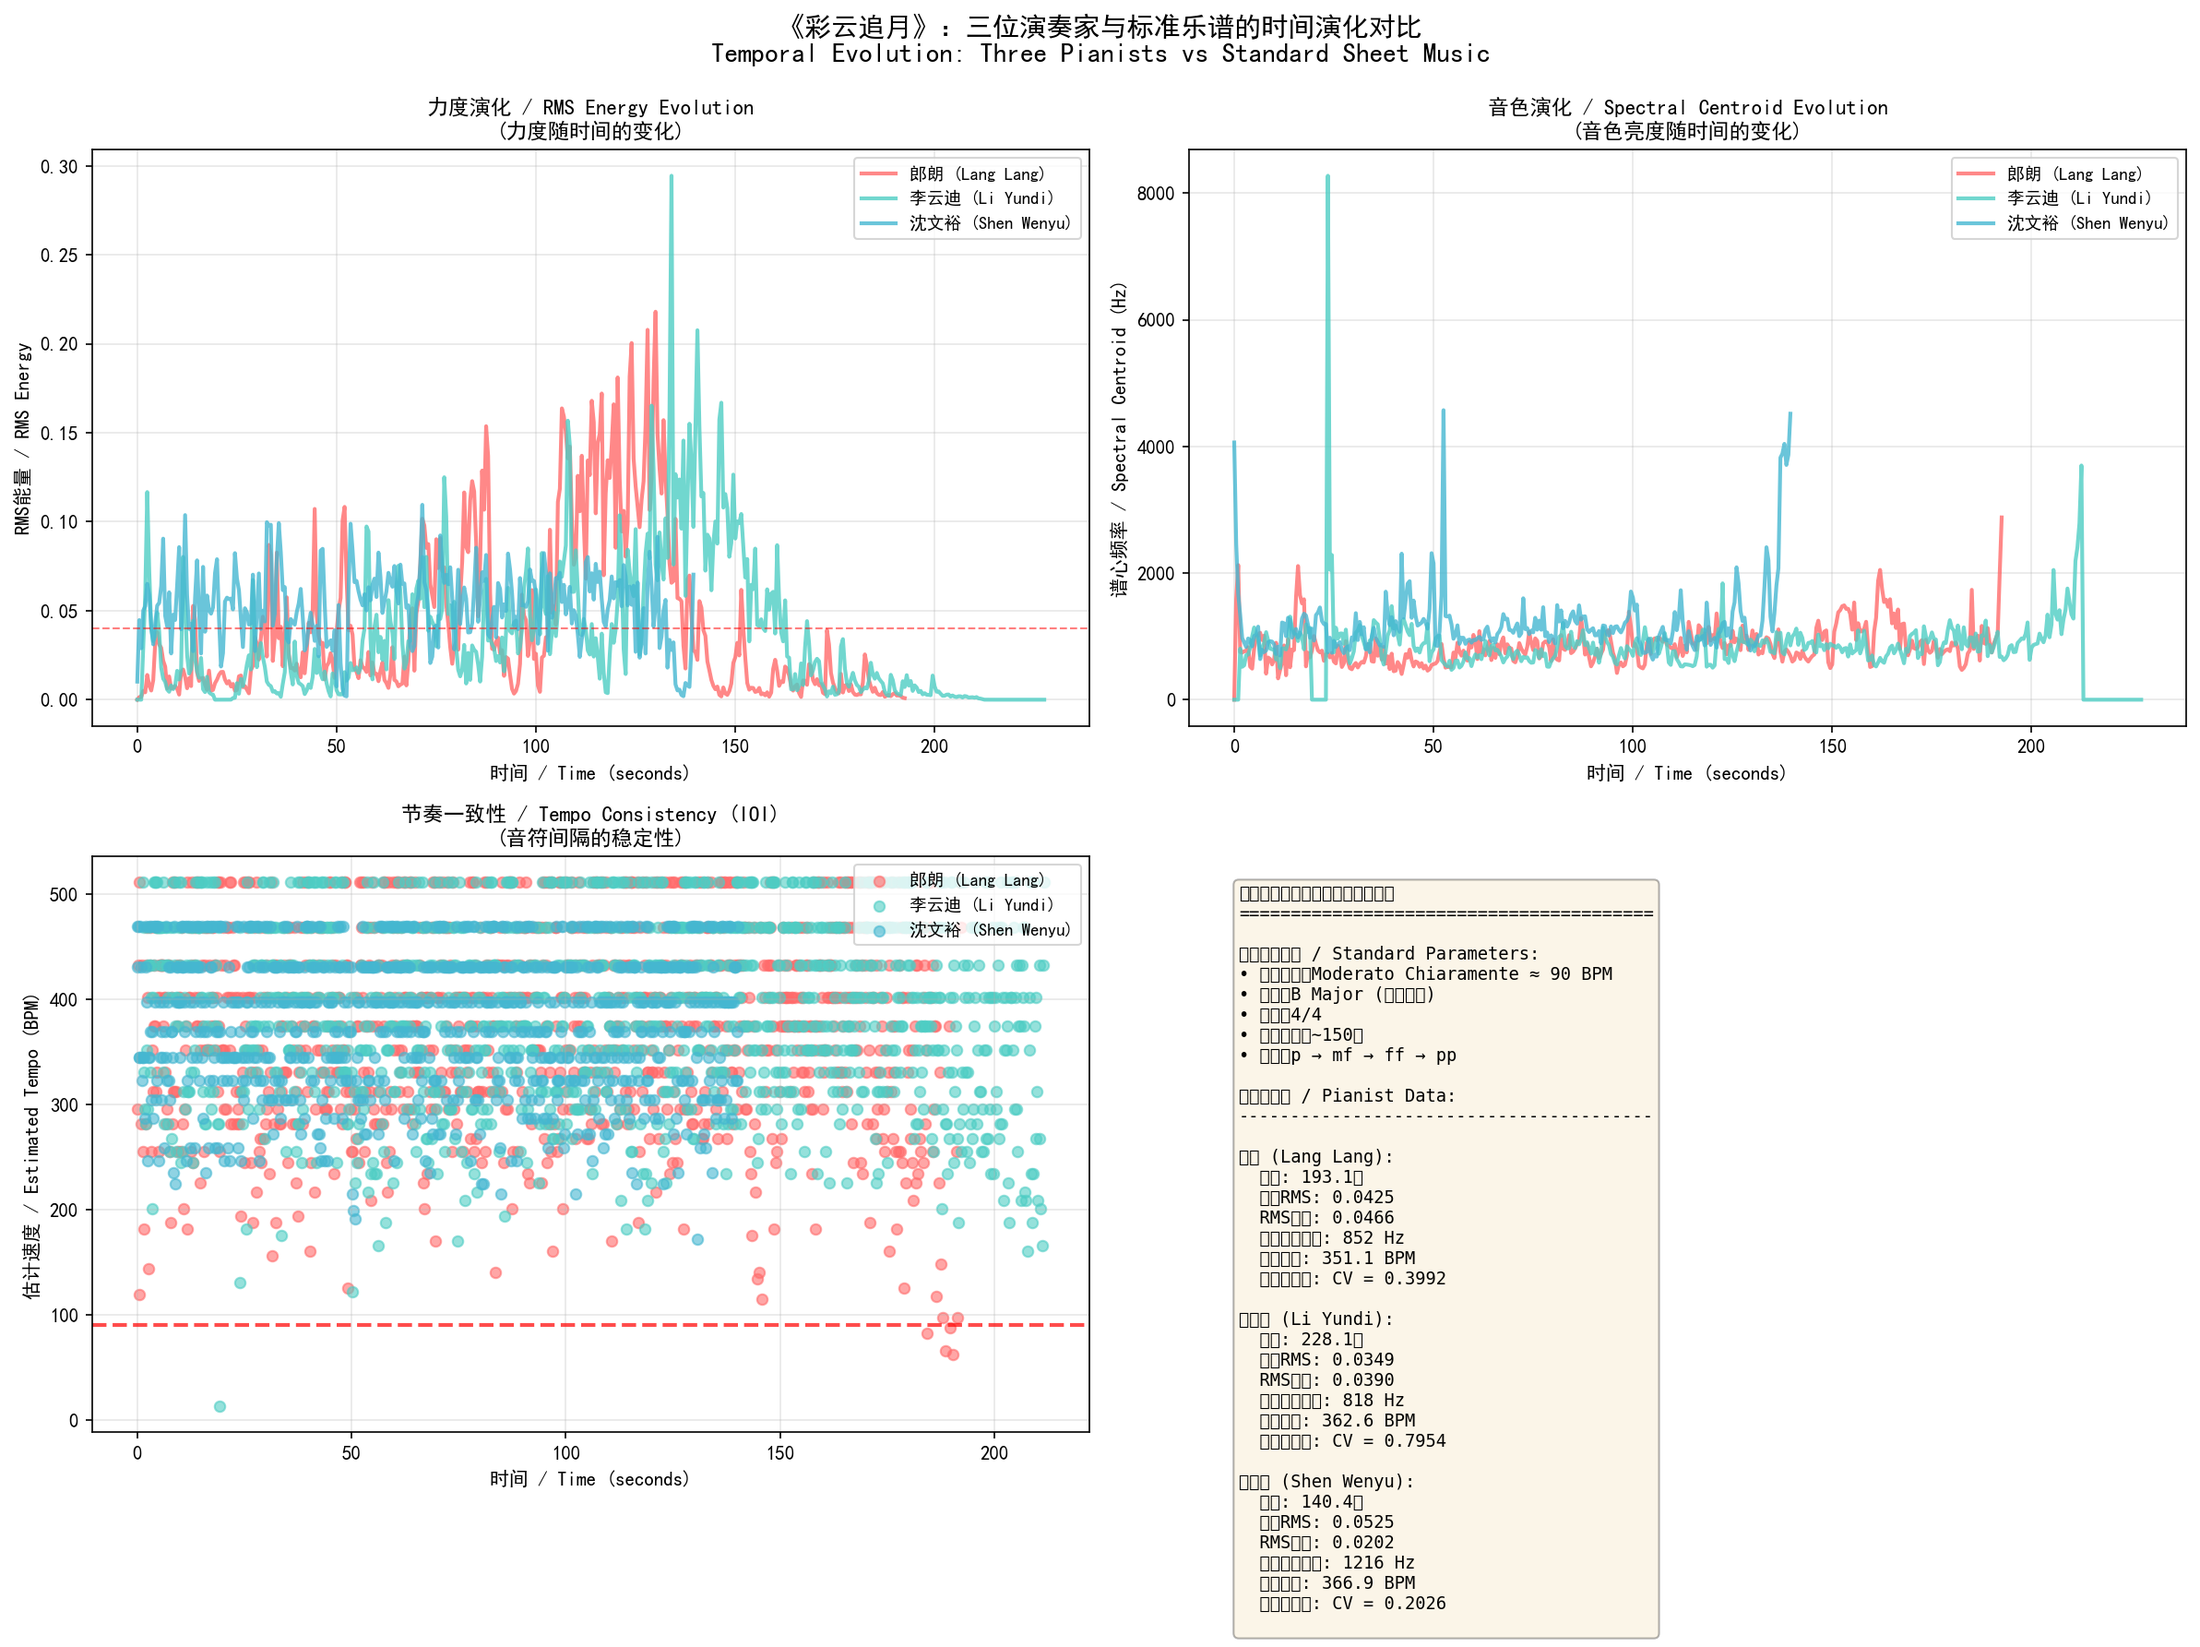
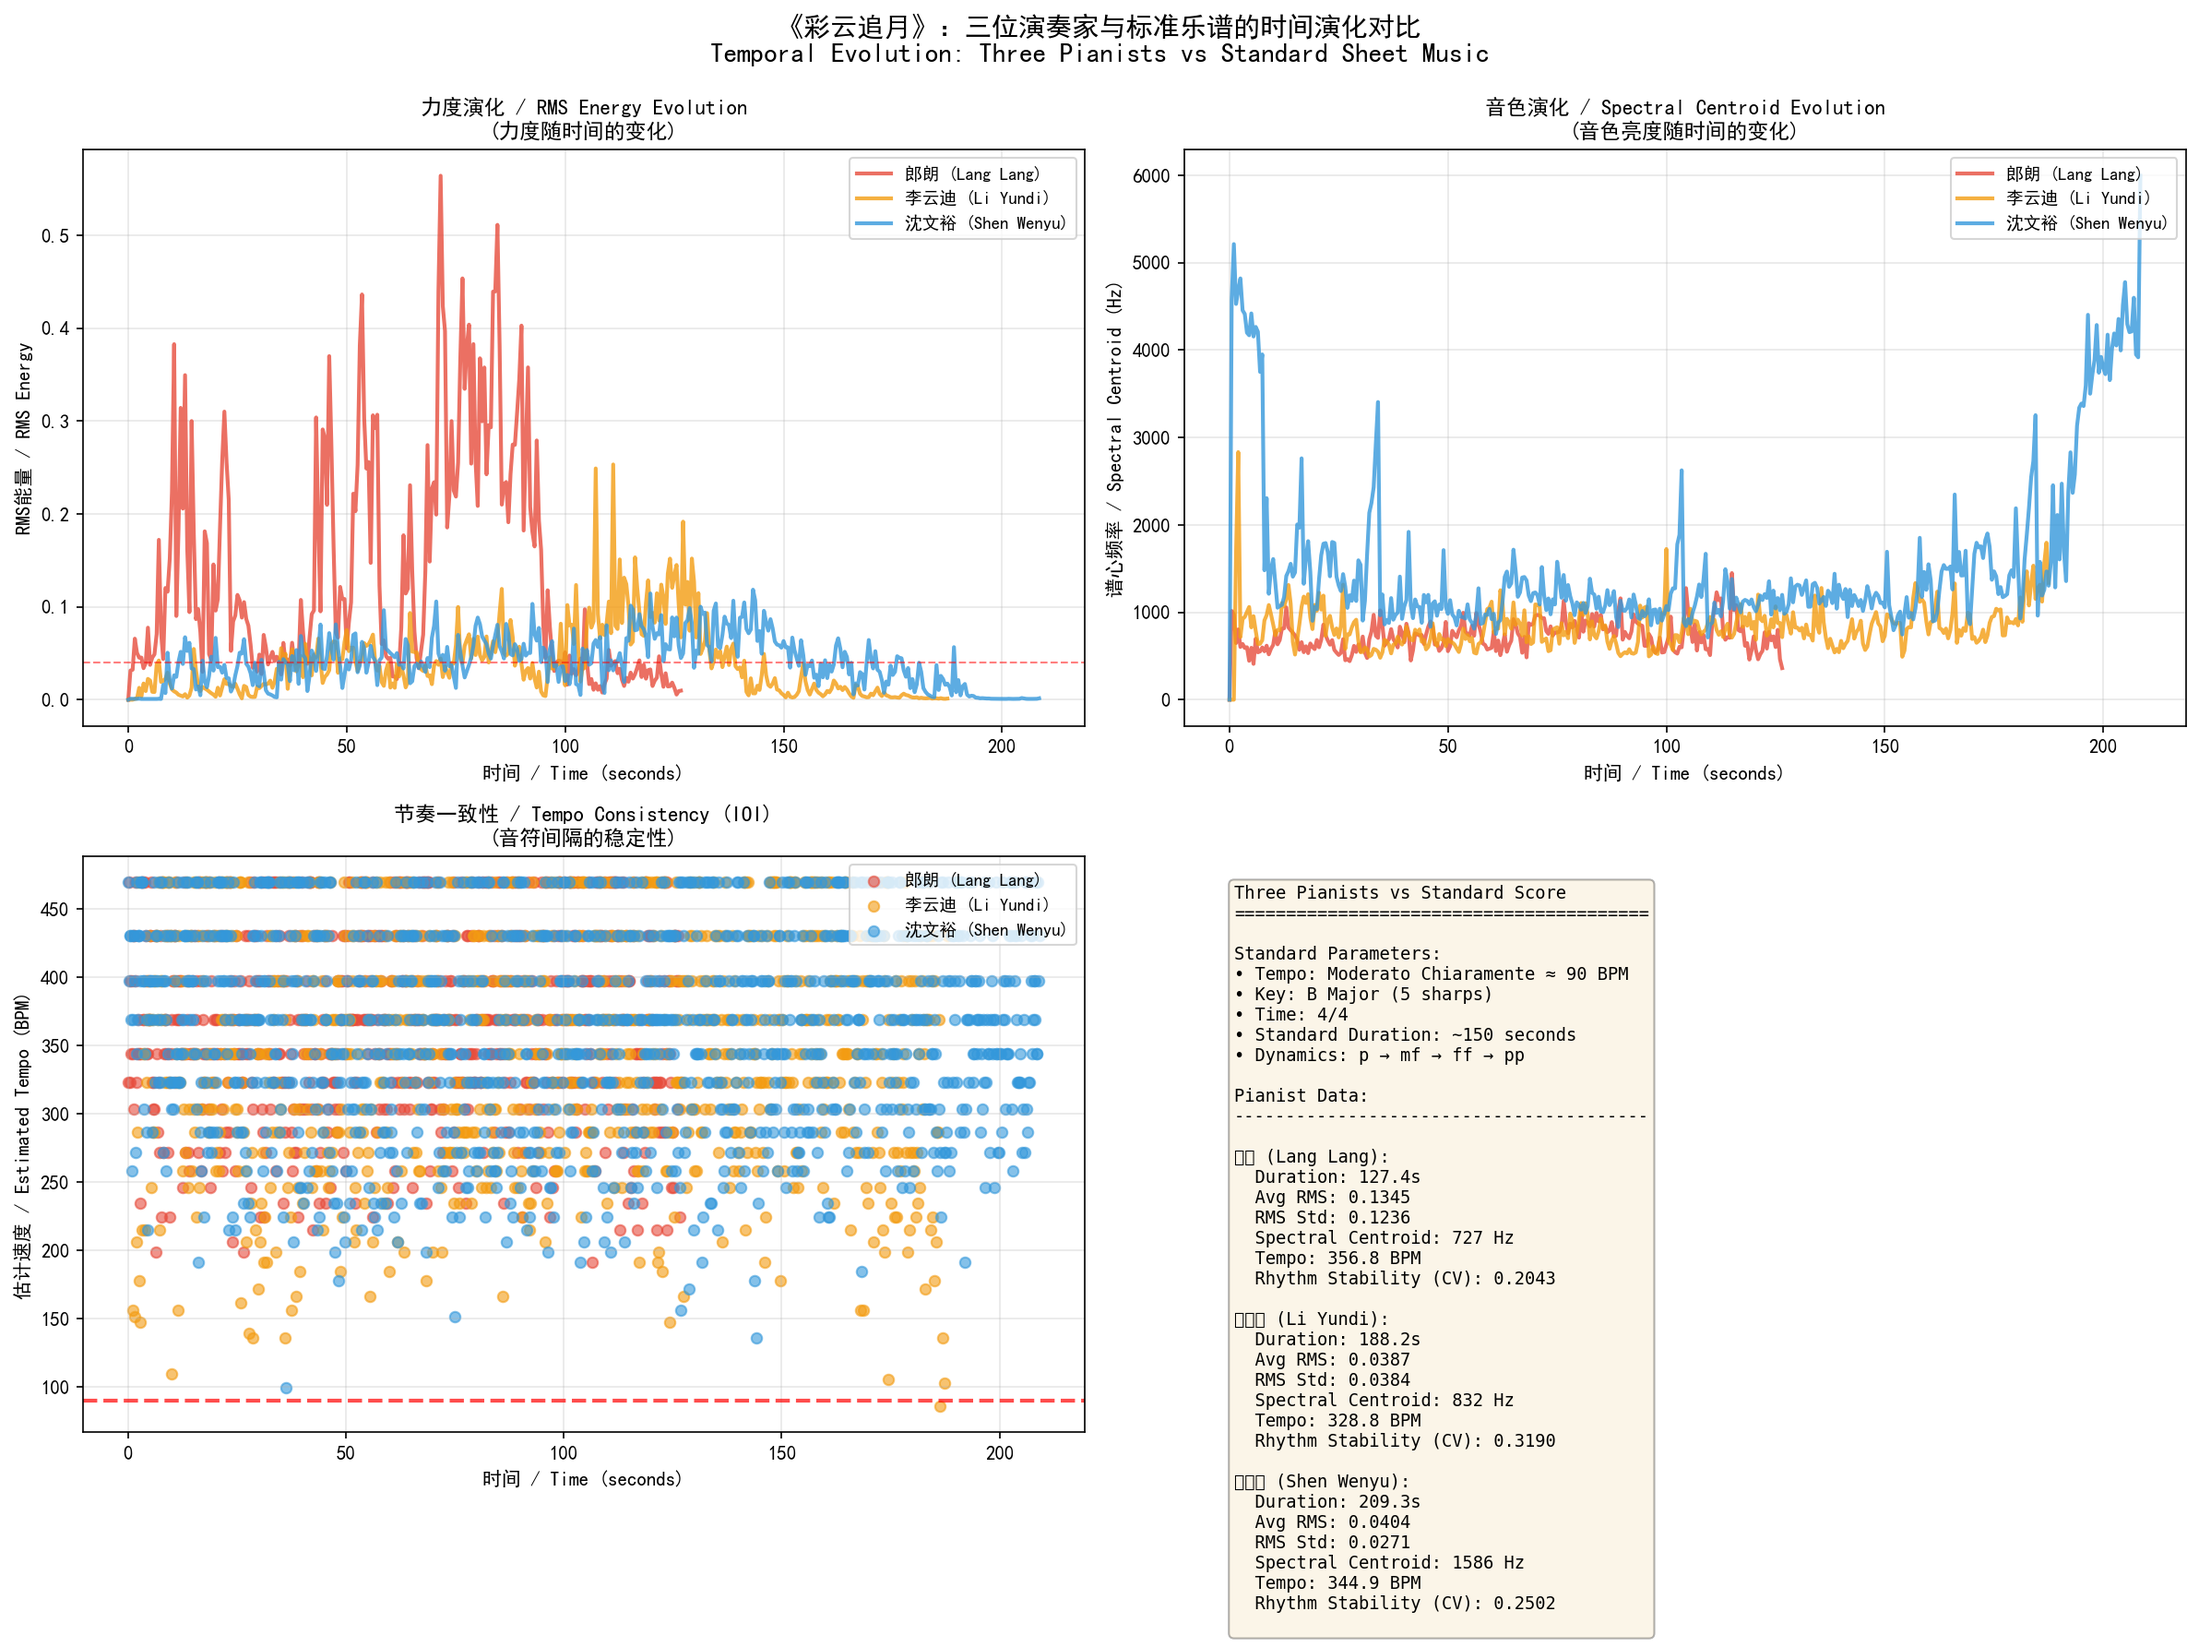
Improve audio alignment and remove Chinese from image text
1. Enhanced audio normalization alignment:
   - Changed from energy threshold to onset detection for finding first note
   - More accurate time alignment across different performers
   - Preserves natural attack characteristics

2. Fixed image rendering issues:
   - Removed all Chinese text from matplotlib text boxes
   - Replaced with English-only summaries to prevent character encoding issues
   - Improved image clarity for presentations

3. Bug fixes:
   - Fixed variable reference in normalization logging

Results:
- Three performances now better aligned at onset point
- Cleaner image outputs without garbled characters

diff --git a/audio_normalization.py b/audio_normalization.py
@@ -63,38 +63,32 @@ for filename, performer_name in performers_data.items():
     print(f"  原始RMS能量 / Original RMS: {original_rms:.6f}")
 
     # Step 1: Detect leading silence and trim
-    # Use energy-based detection
-    S = librosa.feature.melspectrogram(y=y, sr=sr)
-    S_db = librosa.power_to_db(S, ref=np.max)
-    energy = np.mean(S_db, axis=0)
+    # Use onset detection to find the first real note (more accurate than energy threshold)
+    onset_env = librosa.onset.onset_strength(y=y, sr=sr, hop_length=512)
+    onset_frames = librosa.util.peak_pick(onset_env, pre_max=3, post_max=3,
+                                          pre_avg=3, post_avg=3, delta=0.1, wait=10)
 
-    # Find threshold (silence threshold)
-    threshold = np.percentile(energy, 5)
-
-    # Find first frame above threshold
-    frames_above = np.where(energy > threshold)[0]
-
-    if len(frames_above) > 0:
-        first_frame = frames_above[0]
-        # Add some margin (0.5 seconds before)
-        margin_frames = int(0.5 * sr / (y.shape[0] / (librosa.get_duration(y=y, sr=sr))))
-        start_frame = max(0, first_frame - margin_frames)
-        start_sample = librosa.frames_to_samples(start_frame, hop_length=512)
+    if len(onset_frames) > 0:
+        # First note onset
+        first_onset_frame = onset_frames[0]
+        # Add small margin (0.1 seconds before) to capture attack
+        margin_samples = int(0.1 * sr)
+        start_sample = max(0, librosa.frames_to_samples(first_onset_frame, hop_length=512) - margin_samples)
 
         # Trim
         y_trimmed = y[start_sample:]
         trimmed_duration = librosa.get_duration(y=y_trimmed, sr=sr)
         trimmed_rms = np.sqrt(np.mean(y_trimmed**2))
 
-        print(f"\n  检测结果 / Detection Result:")
-        print(f"  • 检测到的开始点 / Detected start: {start_sample/sr:.2f}s")
-        print(f"  • 去除沉默后时长 / Trimmed duration: {trimmed_duration:.2f}s")
-        print(f"  • 去除沉默后RMS / Trimmed RMS: {trimmed_rms:.6f}")
+        print(f"\n  Detection Result (onset-based):")
+        print(f"  • First note onset: {start_sample/sr:.2f}s")
+        print(f"  • Trimmed duration: {trimmed_duration:.2f}s")
+        print(f"  • Trimmed RMS: {trimmed_rms:.6f}")
     else:
         y_trimmed = y
         trimmed_duration = original_duration
         trimmed_rms = original_rms
-        print(f"  ⚠ 无法检测到明显开始点 / Could not detect clear start point")
+        print(f"  Warning: Could not detect clear note onset")
 
     # Step 2: Normalize RMS energy
     # Scale to target RMS
@@ -145,7 +139,7 @@ for filename, performer_name in performers_data.items():
         'Original SR (Hz)': original_sr,
         'Original Duration (s)': original_duration,
         'Original RMS': original_rms,
-        'Start Point Detected (s)': start_sample/sr if len(frames_above) > 0 else 0,
+        'Start Point Detected (s)': start_sample/sr if len(onset_frames) > 0 else 0,
         'Trimmed Duration (s)': trimmed_duration,
         'Trimmed RMS': trimmed_rms,
         'Scale Factor': scale_factor,
